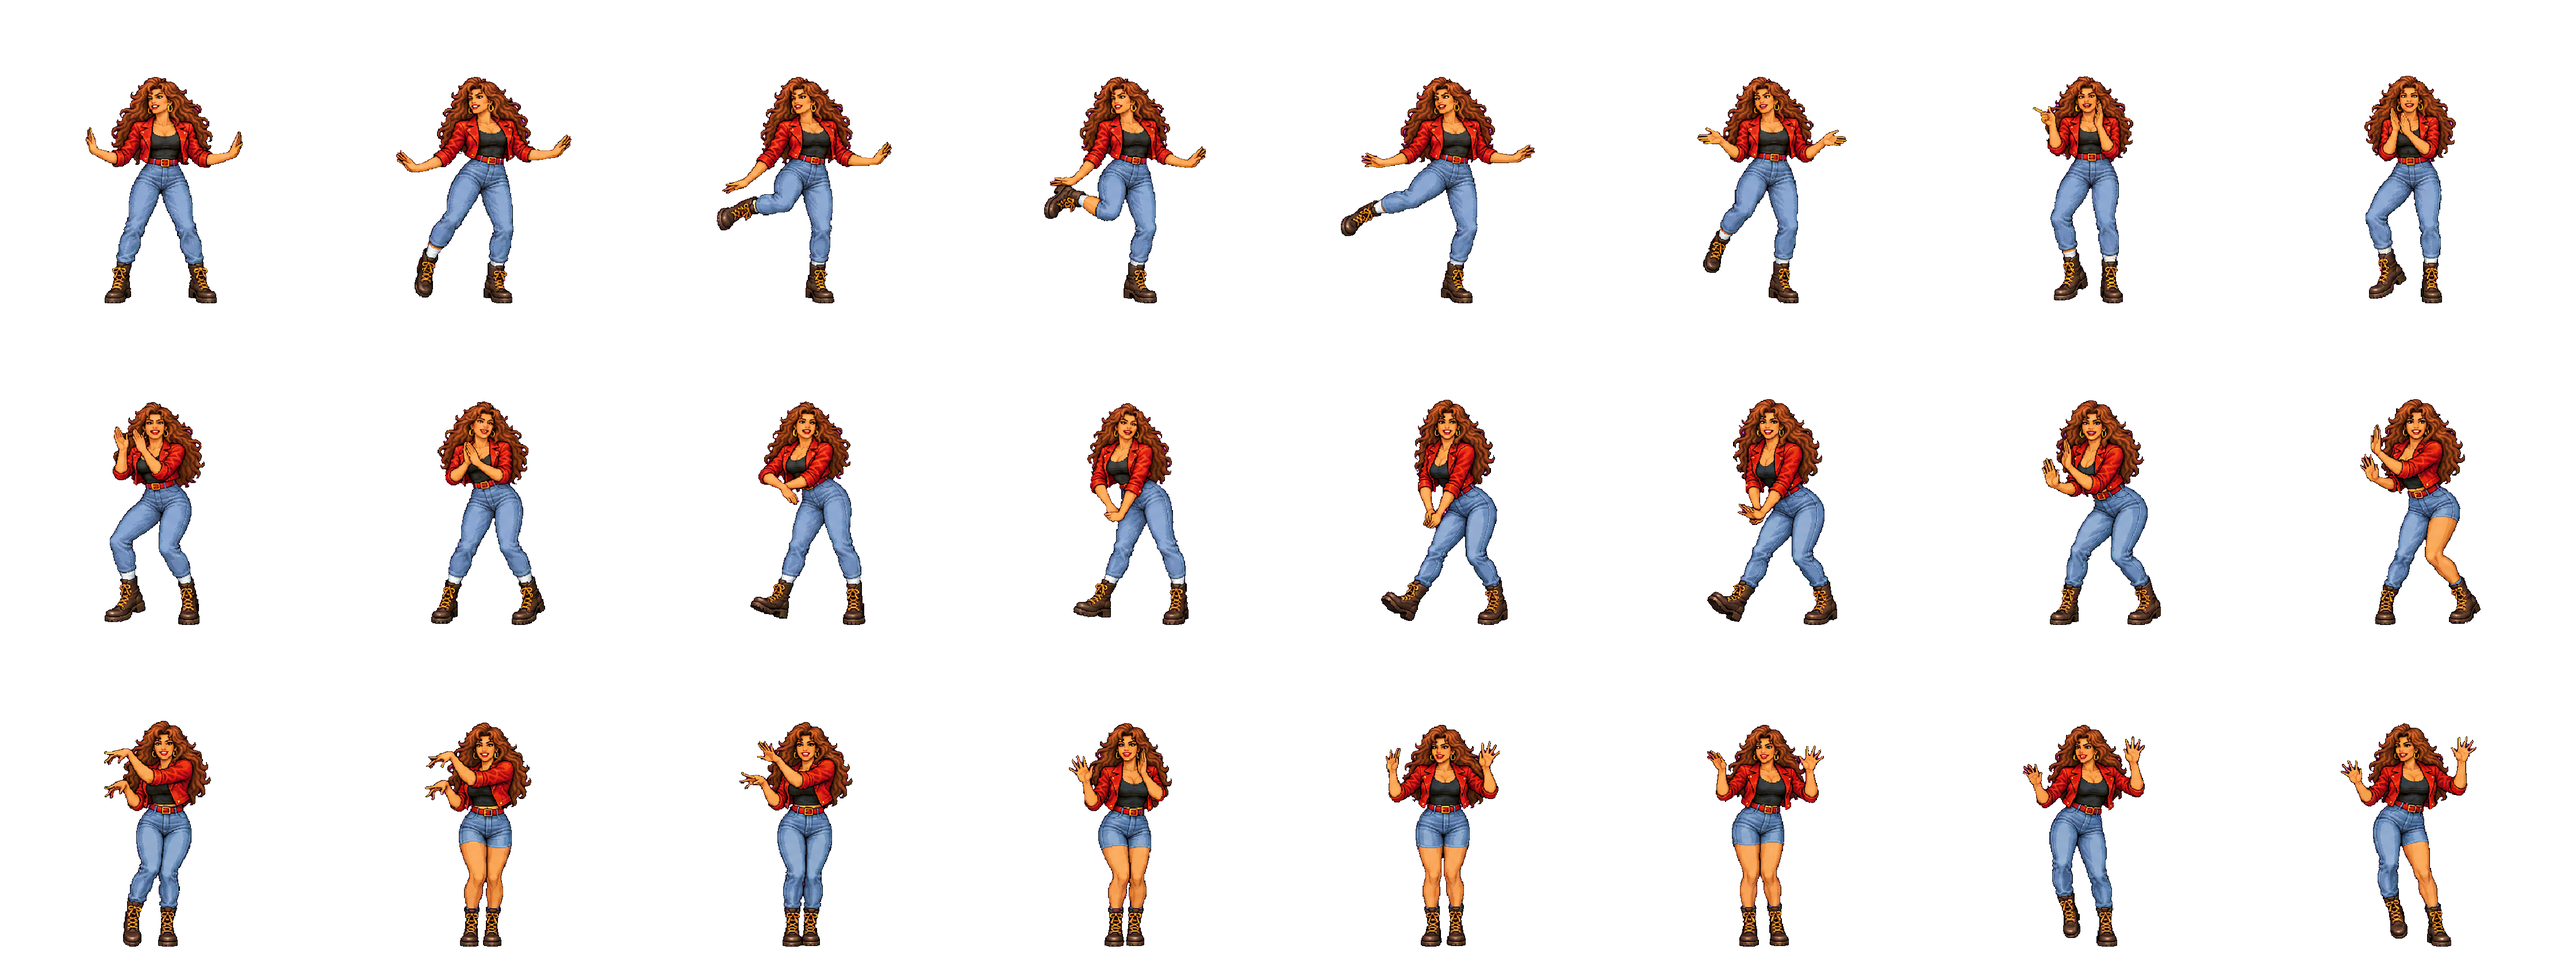
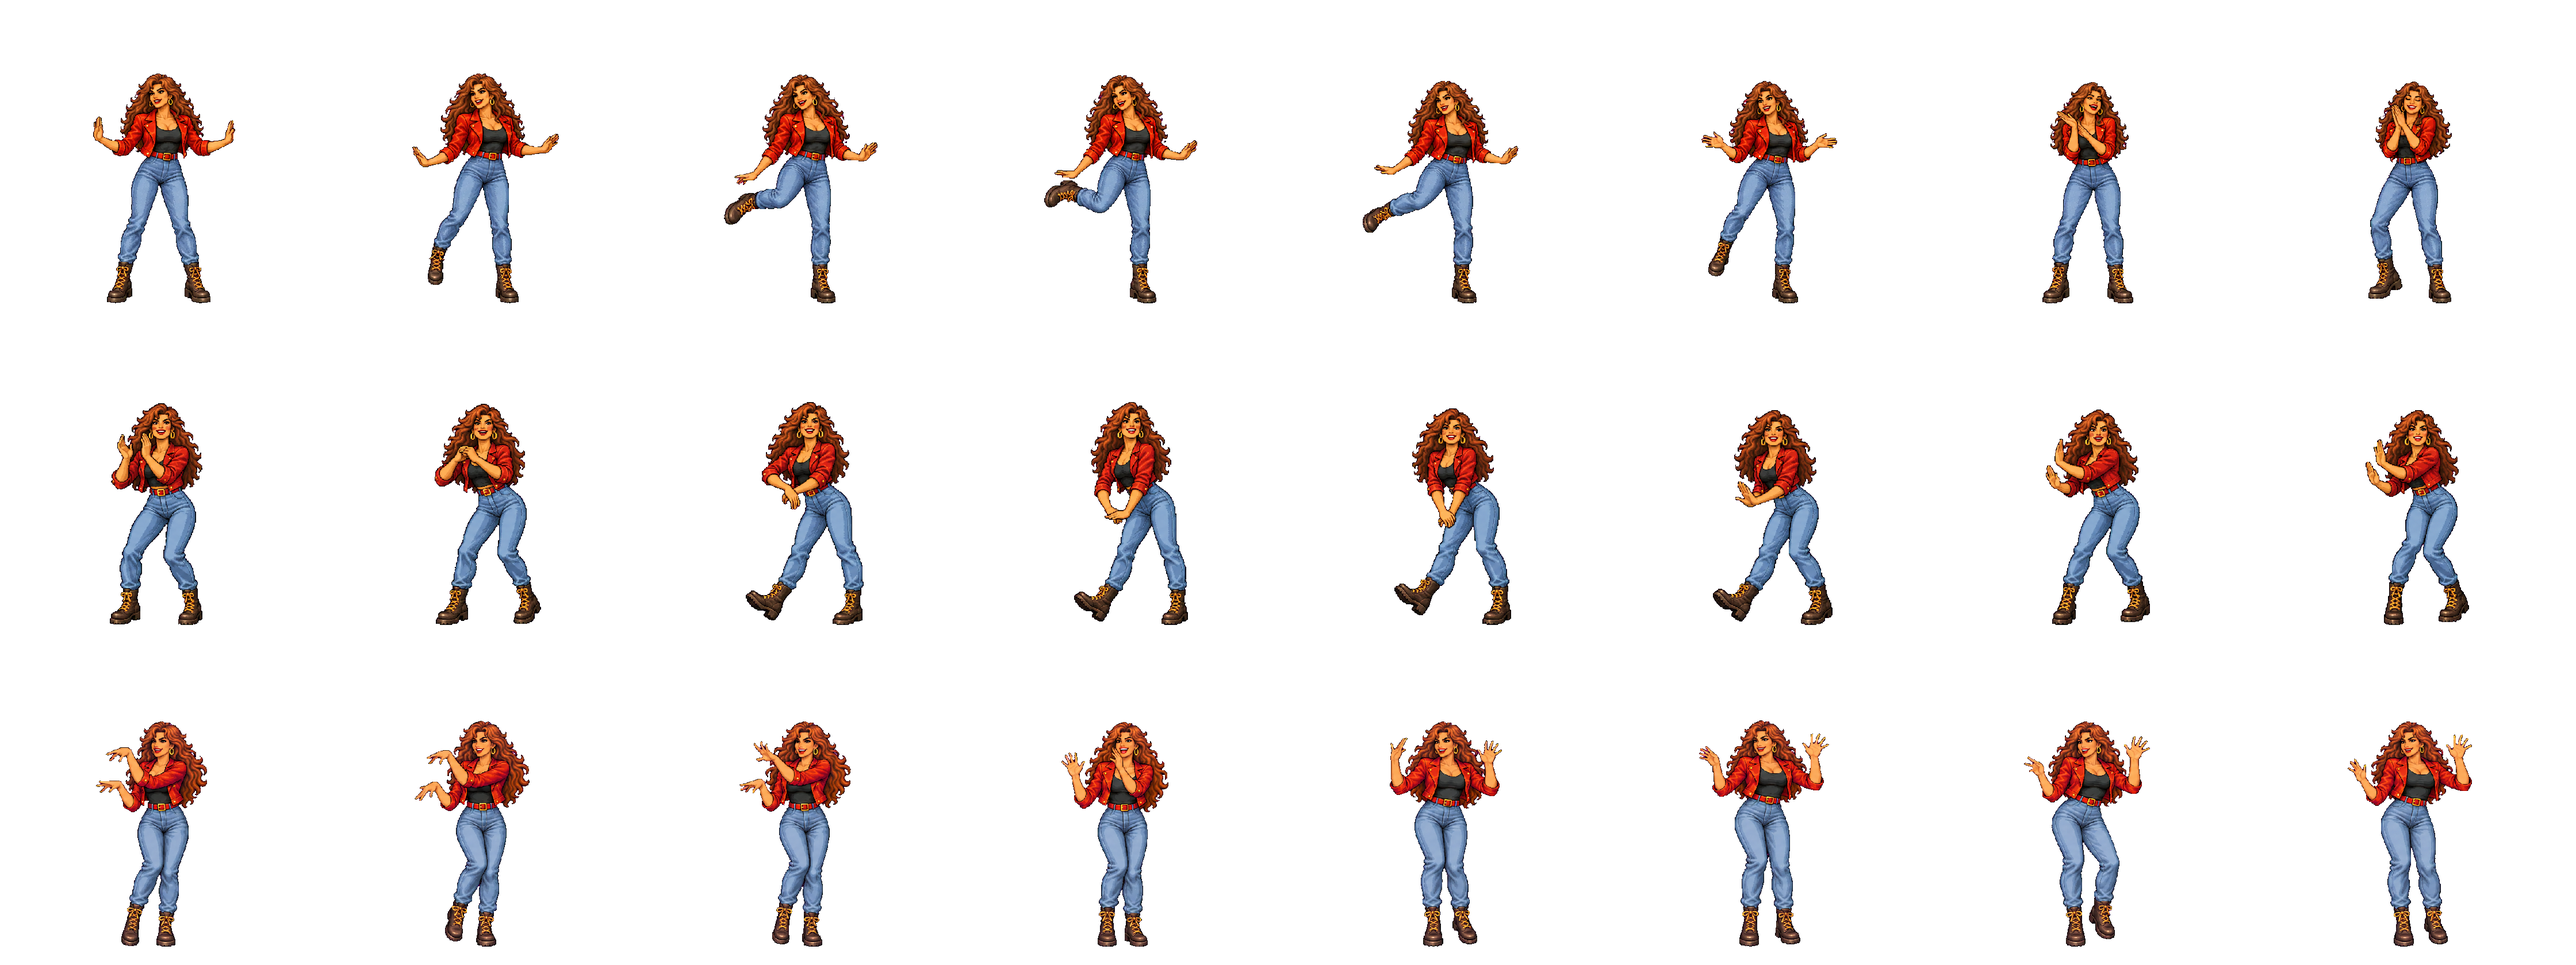
chore: belter's dance, redrawn at eight figures a render
The set this branch has been chasing all day, with every fix in it.

  microphone            0 of 24   was ~22 of 24
  white in lower 45%    0 of 24   was 11 of 24 at twelve per render
  bare leg in lower 45% 0 of 24   was the whole of the second sheet

The bare-leg measure is new. The white-pixel rule is blind to denim shorts, and
shorts were plainly there at twelve, so skin against denim in the lower 45% is
measured too now. Both read zero.

Drawn from shuffle-1-b0ARQ5kM85Y-13.6s, 24 frames at 12 fps, on an assembled
bible, an empty-handed per-set key art, a director's note told what the set
holds, and pose cards from the bundle's own traced frames. Three renders.

One roll. This clip measured zero white at twelve on an earlier roll and eleven
on the next, so the sheet-size result wants a second roll before it is called
settled. Pose fidelity is unmeasured: the baselines on record belong to a clip
that no longer exists, so there is no floor to compare against yet.

diff --git a/outputs/belter/index.html b/outputs/belter/index.html
@@ -17,7 +17,4 @@
 <h2>dance &middot; 24 frames at 12 fps</h2>
 <figure><img src="dance-proof.gif" alt="dance loop"><figcaption>proof, 12 fps</figcaption></figure>
 <div class="sheet"><img src="dance-sheet.png" alt="dance frame sheet"></div>
-<h2>sing &middot; 16 frames at 8 fps</h2>
-<figure><img src="sing-proof.gif" alt="sing loop"><figcaption>proof, 8 fps</figcaption></figure>
-<div class="sheet"><img src="sing-sheet.png" alt="sing frame sheet"></div>
 
